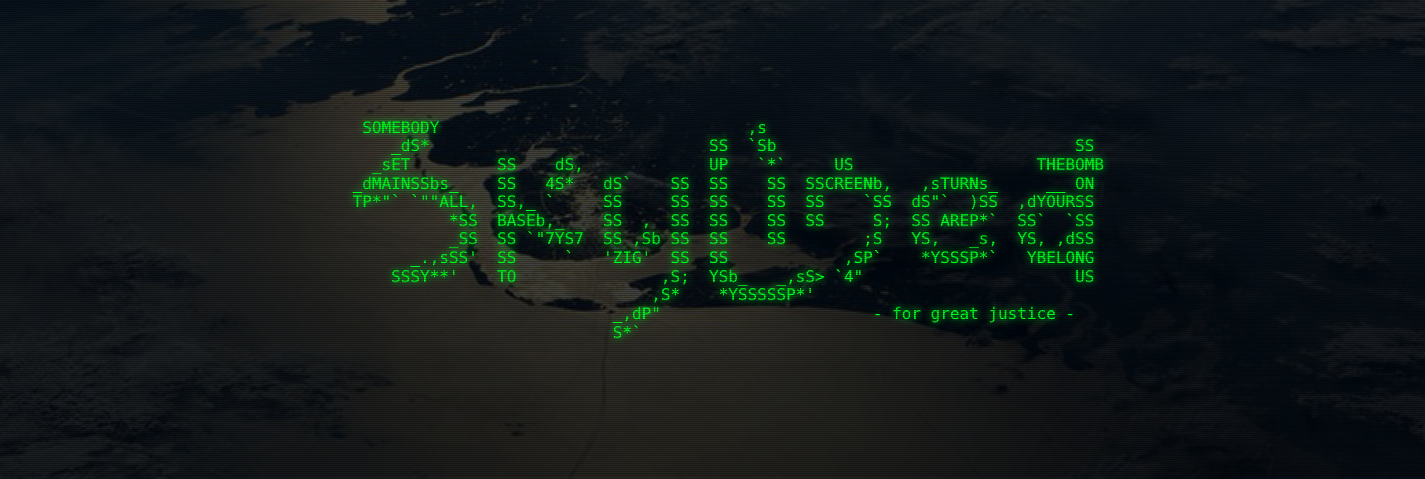
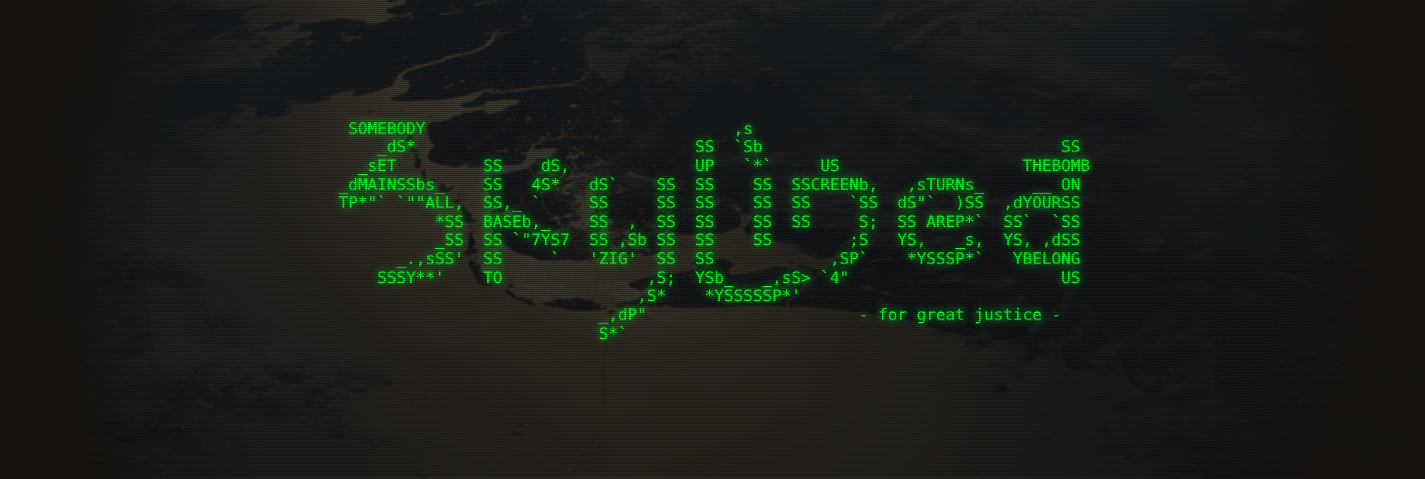
Infinite width

Changed region(s): [[0.2161, 0.2338, 0.7719, 0.7015], [0.6175, 0.643, 0.7411, 0.6722]]

diff --git a/Static/Stylesheets/Page.css b/Static/Stylesheets/Page.css
@@ -23,7 +23,6 @@ html {
 }
 body {
   margin: auto;
-  max-width: 80em;
 }
 h1, h2, h3, h4, h5 {
   max-width: 100%;
@@ -83,9 +82,11 @@ code {
 
 .banner-logo {
   display: block;
-  height: 250px;
+  height: 350px;
   background-image: url("/Images/Banner.png")!important;
   background-position: 50% 50%;
+  background-repeat: no-repeat;
+  background-color: rgba(22, 19, 16, 1);
   border: 1px solid rgba(22, 19, 16, 0.3)!important;
   border-radius: 0.5em;
   margin-bottom: 1em;
